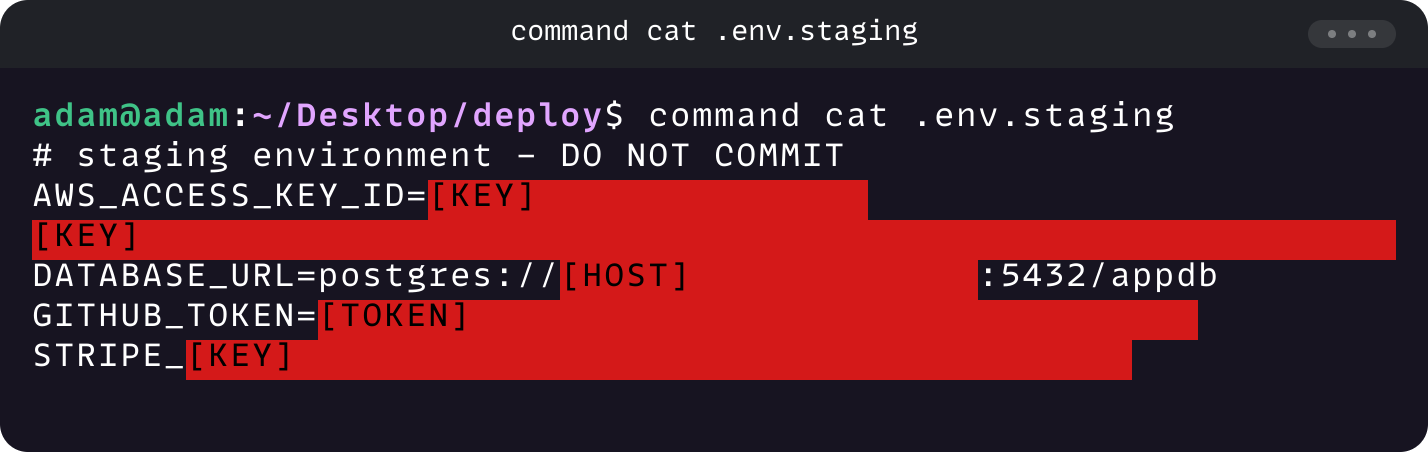
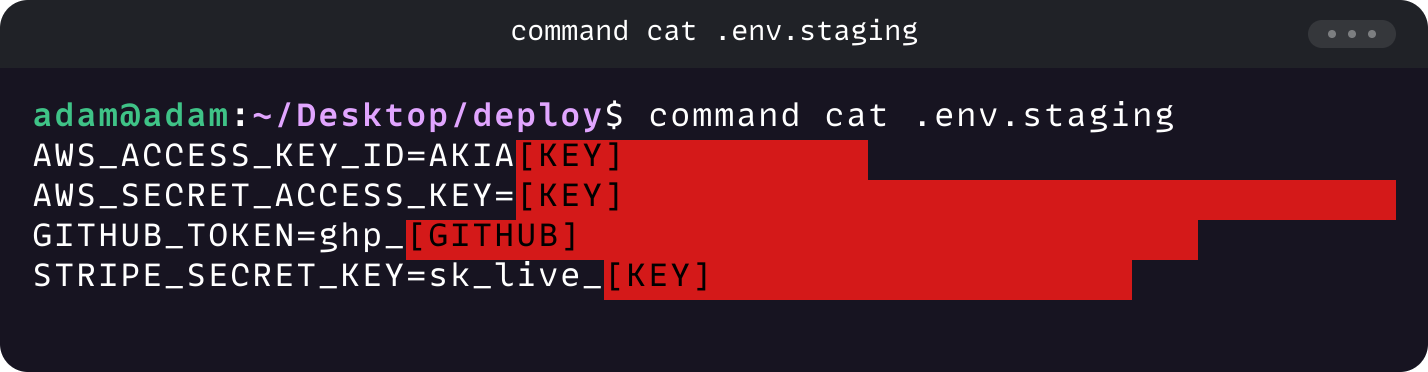
fix: refine rendering, docs, prompts, and contextual redaction
- Remove extra chrome padding while preserving terminal padding
- Auto-crop exact terminal content bounds without stretching panes
- Add real Bash and Oh My Zsh prompt showcase
- Reorganize and shorten user documentation
- Move man page under docs/man
- Preserve contextual secret key names while masking only values
- Regenerate redaction and theme assets with current rendering

diff --git a/src/redaction.rs b/src/redaction.rs
@@ -777,7 +777,7 @@ fn builtin_rules() -> Vec<RedactionRuleConfig> {
         ),
         r(
             "aws_secret",
-            r#"(?i)(?:aws_secret_access_key|aws_secret)\s*[:=]\s*['"]?[A-Za-z0-9/+=]{40}['"]?"#,
+            r#"(?i)(?:aws_secret_access_key|aws_secret)\s*[:=]\s*['"]?(?P<redact>[A-Za-z0-9/+=]{40})['"]?"#,
             "[REDACTED-KEY]",
         ),
         // PEM armor only. This rule used to carry an `[A-Za-z0-9+/]{60,}`
@@ -808,7 +808,7 @@ fn builtin_rules() -> Vec<RedactionRuleConfig> {
         // it, prose such as "rotate the api key regularly afterwards" matched.
         r(
             "api_key",
-            r#"(?i)(?:api[_-]?key|apikey|access[_-]?token|secret[_-]?key|auth[_-]?token|bearer)\s*[:=]\s*['"]?[A-Za-z0-9_\-\.]{16,}"#,
+            r#"(?i)(?:api[_-]?key|apikey|access[_-]?token|secret[_-]?key|auth[_-]?token|bearer)\s*[:=]\s*['"]?(?P<redact>[A-Za-z0-9_\-\.]{16,})"#,
             "[REDACTED-KEY]",
         ),
         // --- Additional provider tokens (sourced from / inspired by Betterleaks, MIT) ---
@@ -839,17 +839,17 @@ fn builtin_rules() -> Vec<RedactionRuleConfig> {
         ),
         r(
             "generic_api_key",
-            r#"(?i)(?:api[_-]?key|apikey)\s*[:=]\s*['"]?[A-Za-z0-9_\-]{20,}"#,
+            r#"(?i)(?:api[_-]?key|apikey)\s*[:=]\s*['"]?(?P<redact>[A-Za-z0-9_\-]{20,})"#,
             "[REDACTED-KEY]",
         ),
         r(
             "bearer_token",
-            r#"(?i)(?:bearer|authorization)\s*[:=]\s*['"]?[A-Za-z0-9_\-.]{20,}"#,
+            r#"(?i)(?:bearer|authorization)\s*[:=]\s*['"]?(?P<redact>[A-Za-z0-9_\-.]{20,})"#,
             "[REDACTED-TOKEN]",
         ),
         r(
             "connection_string",
-            r#"(?i)(?:connection.?string|conn.?str)\s*[:=]\s*['"]?[^'";\s]{20,}"#,
+            r#"(?i)(?:connection.?string|conn.?str)\s*[:=]\s*['"]?(?P<redact>[^'";\s]{20,})"#,
             "[REDACTED-SECRET]",
         ),
         r(
@@ -1074,8 +1074,31 @@ mod tests {
 
     #[test]
     fn aws_secret_matches_in_context() {
-        let map = redact("aws_secret_access_key = wJalrXUtnFEMI/K7MDENG/bPxRfiCYEXAMPLEKEY");
+        let input = "AWS_SECRET_ACCESS_KEY=wJalrXUtnFEMI/K7MDENG/bPxRfiCYEXAMPLEKEY";
+        let parser = screen_of(input, 120, 3);
+        let map = engine().redact_screen(parser.screen(), None);
         assert_eq!(count_of(&map, "aws_secret"), 1);
+        let text = map.redacted_plain_text(parser.screen());
+        assert!(text.contains("AWS_SECRET_ACCESS_KEY="));
+        assert!(!text.contains("wJalrXUtnFEMI/K7MDENG/bPxRfiCYEXAMPLEKEY"));
+    }
+
+    #[test]
+    fn contextual_rules_preserve_key_names() {
+        let input = concat!(
+            "API_KEY=abcdefghijklmnopqrstuvwx\n",
+            "Authorization=abcdefghijklmnopqrstuvwxyz012345\n",
+            "CONNECTION_STRING=postgresql://user:secret@db.example/app"
+        );
+        let parser = screen_of(input, 120, 5);
+        let map = engine().redact_screen(parser.screen(), None);
+        let text = map.redacted_plain_text(parser.screen());
+        assert!(text.contains("API_KEY="));
+        assert!(text.contains("Authorization="));
+        assert!(text.contains("CONNECTION_STRING="));
+        assert!(!text.contains("abcdefghijklmnopqrstuvwx"));
+        assert!(!text.contains("abcdefghijklmnopqrstuvwxyz012345"));
+        assert!(!text.contains("postgresql://user:secret@db.example/app"));
     }
 
     #[test]

diff --git a/README.md b/README.md
@@ -44,7 +44,7 @@ so an agent can inspect it and selectively redact.
 See [docs/redaction.md](./docs/redaction.md).
 
 <p align="center">
-  <img src="docs/assets/redaction.png" alt="Screenshot of an accidentally cat'd .env.staging file in a GNOME window, where the AWS access key, the whole AWS secret access key line, the database host, the GitHub token, and the Stripe key are each masked by red blocks labeled KEY, HOST, and TOKEN - the identifying prefix (AWS_ACCESS_KEY_ID=, postgres://, GITHUB_TOKEN=, STRIPE_) stays visible so you can see the secret type but not its value" width="700">
+  <img src="docs/assets/redaction.png" alt="Screenshot of command cat .env.staging in a GNOME window. The variable names AWS_ACCESS_KEY_ID, AWS_SECRET_ACCESS_KEY, GITHUB_TOKEN, and STRIPE_SECRET_KEY remain visible while their values are masked by red blocks. The prefixes AKIA, ghp_, and sk_live_ remain visible to identify each secret type." width="700">
 </p>
 
 ```sh
